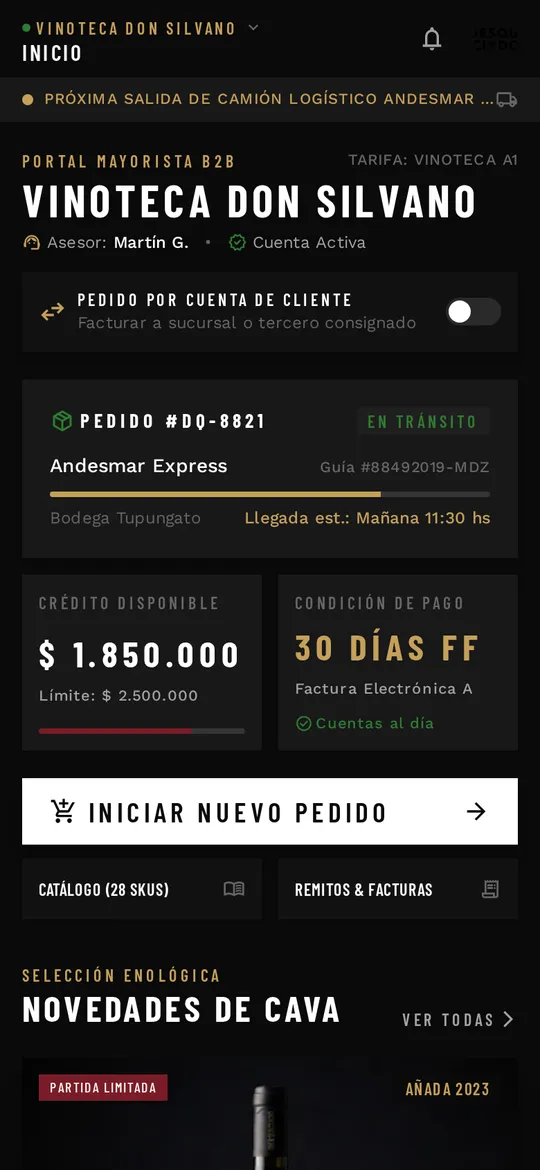
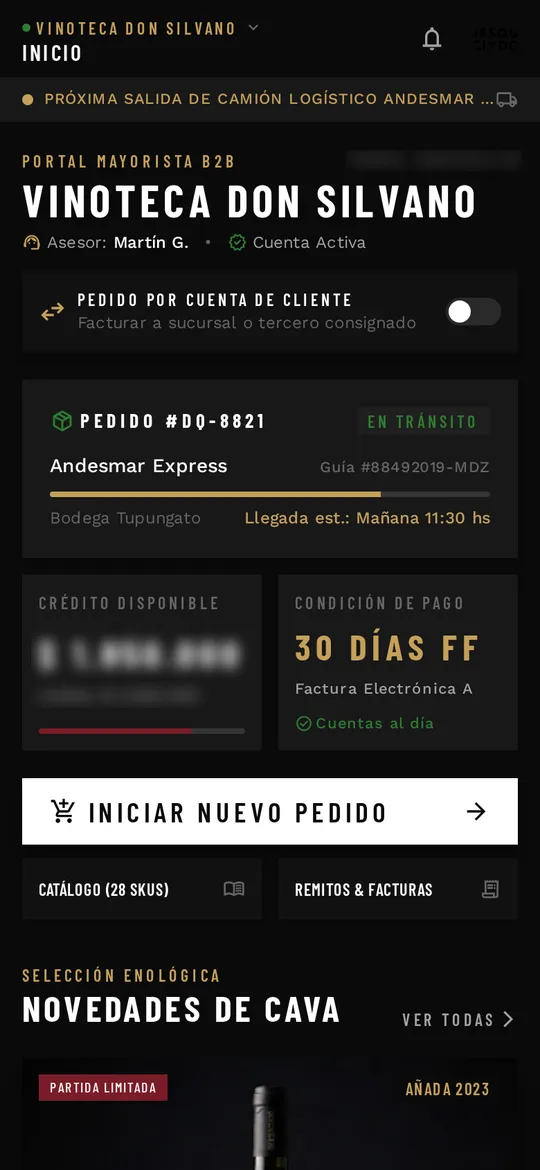
Tapar precios, CUIT y crédito en las pantallas del portal B2B
Mismo criterio que la captura del caso portal-b2b-bodega: los precios por canal
de la bodega no son públicos.

diff --git a/src/components/PantallasStrip.tsx b/src/components/PantallasStrip.tsx
@@ -25,9 +25,11 @@ import shotPalomar from '../assets/images/casos/palomar.webp'
 type Pantalla = { src: string; alt: string; tipo: 'desktop' | 'phone' }
 
 /**
- * Pantallas reales de proyectos entregados. Las del CRM propio van con los
- * montos y los contactos difuminados: son la facturación de RUBRA y los datos
- * de contacto de los clientes, no material público.
+ * Pantallas reales de proyectos entregados, con los datos comerciales tapados:
+ * del CRM propio se difuminan montos y contactos (es la facturación de RUBRA y
+ * los datos de sus clientes), y del portal B2B de la bodega los precios por
+ * canal, el CUIT y la línea de crédito — el mismo criterio que ya se aplicó a
+ * la captura del caso `portal-b2b-bodega`.
  */
 const FILA_A: Pantalla[] = [
   { src: genialCatalogo, alt: 'Catálogo de insumos con filtros — GENIAL Wine', tipo: 'desktop' },
